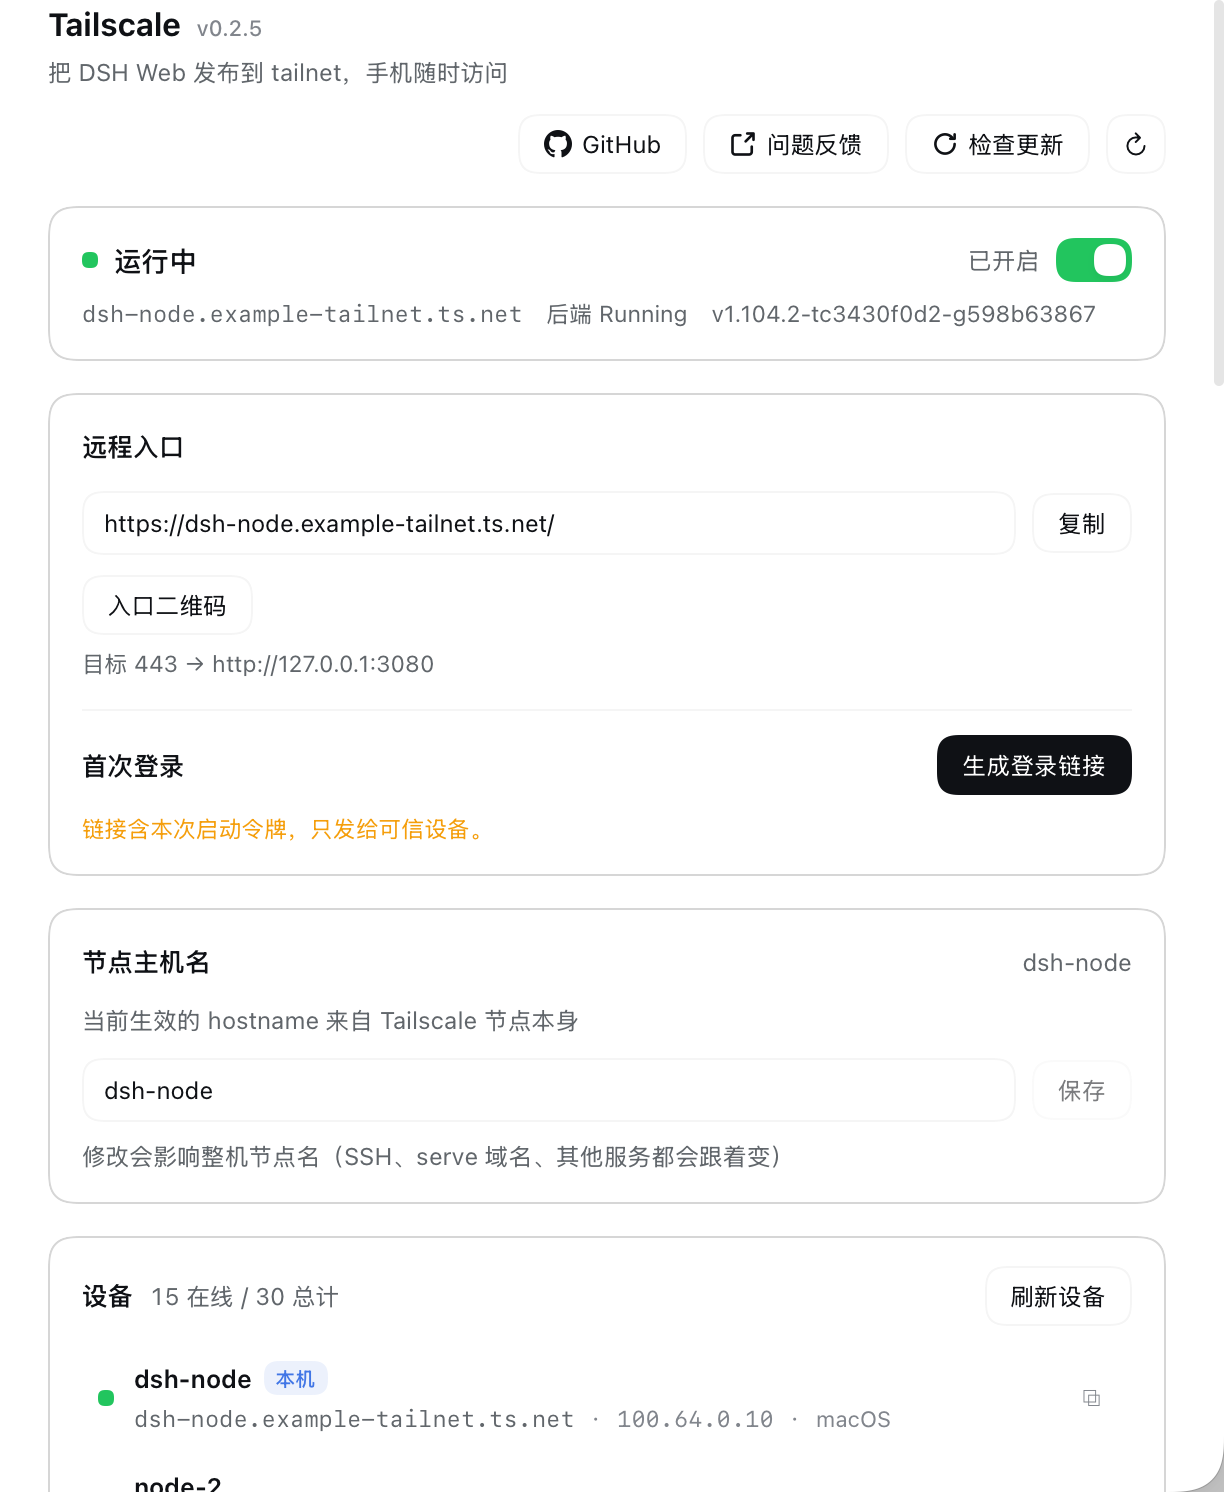
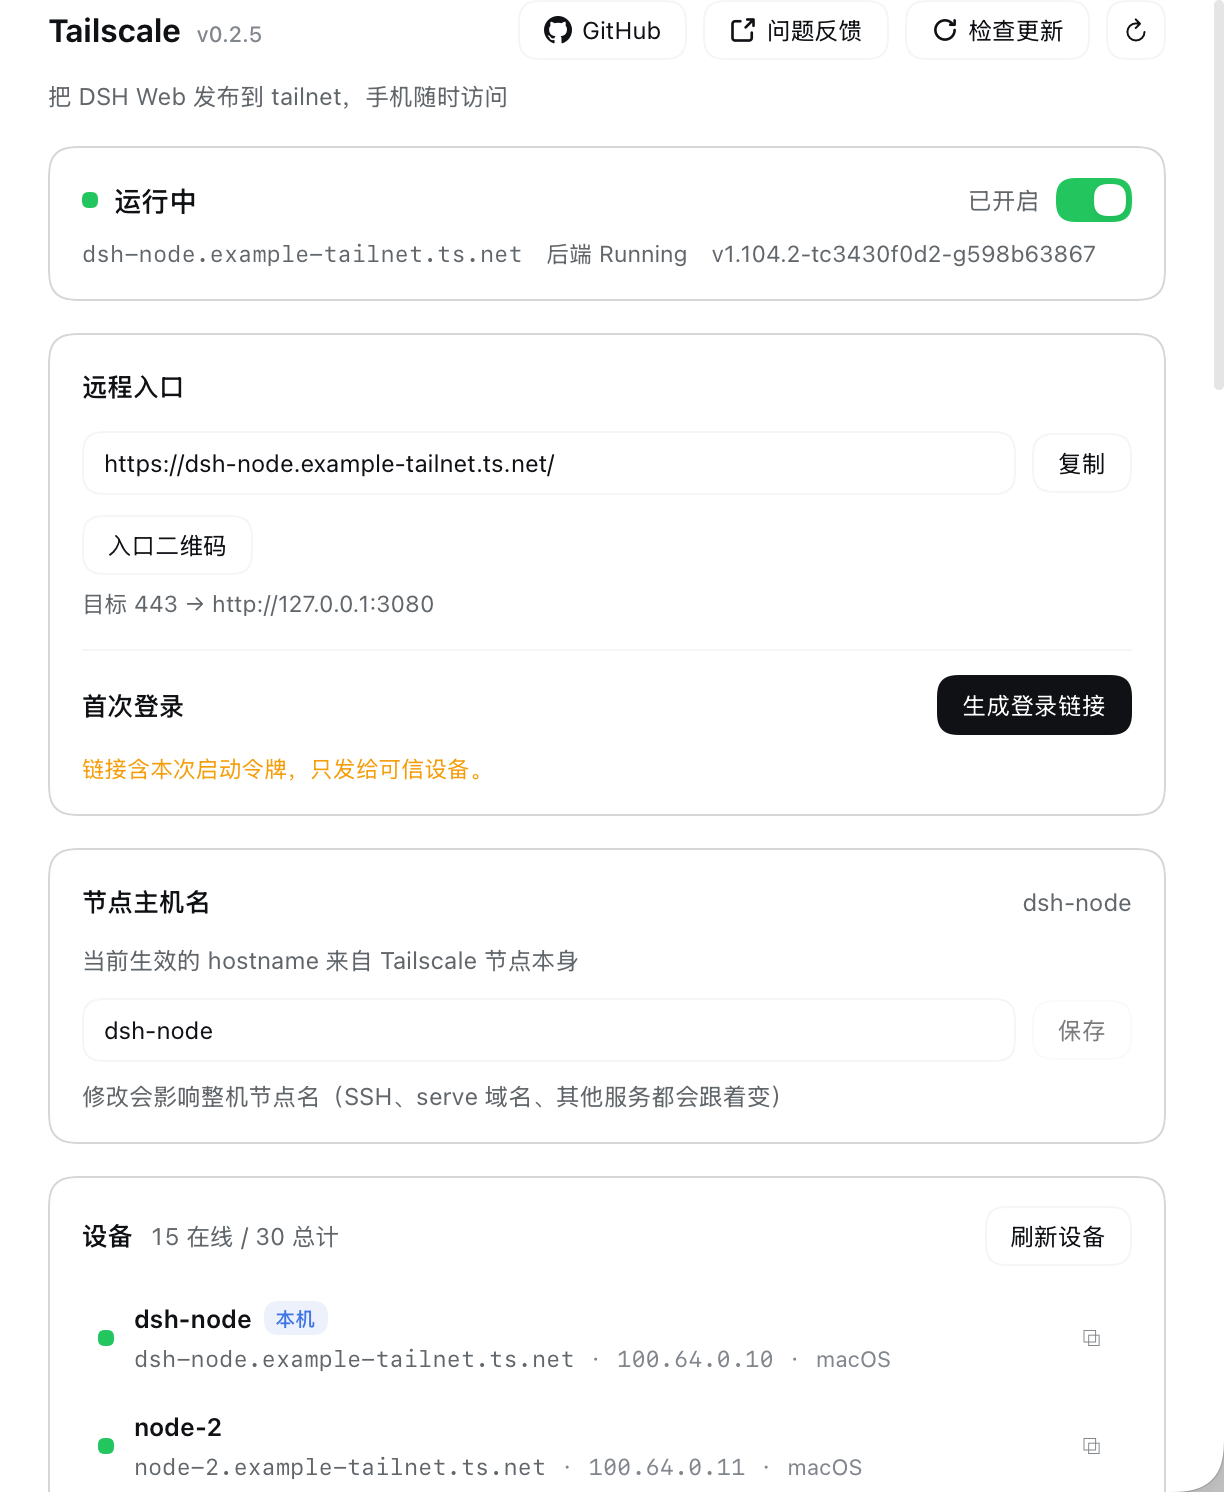
fix(v0.2.6): 设置页头部版式对齐 model-usage（标题行+按钮右对齐，描述独立一行）

diff --git a/lib/client.js b/lib/client.js
@@ -2993,7 +2993,7 @@ var qrcode = function() {
     // ---------------------------------------------------------------- css（只用 --dsw-* 主题 token，fallback 除外）
     const CSS = `
 .dst-root{display:flex;flex-direction:column;gap:16px;padding:0;color:var(--dsw-alias-label-primary,#191f28);font-size:13px;line-height:1.5}
-.dst-shead{display:flex;align-items:flex-start;gap:12px}
+.dst-shead{display:flex;flex-direction:column;gap:6px}
 .dst-shead-main{min-width:0;flex:1 1 auto}
 .dst-title{font-size:16px;font-weight:650;margin:0;color:var(--dsw-alias-label-primary,#191f28)}
 .dst-desc{margin-top:3px;font-size:12px;color:var(--dsw-alias-label-secondary,#637182)}
@@ -3090,7 +3090,7 @@ var qrcode = function() {
 .dst-row{display:flex;align-items:center;gap:8px;flex-wrap:wrap;margin-top:10px}
 .dst-row .dst-btn{margin-left:0}
 .dst-btn-icon{padding:0;width:30px;justify-content:center;font-size:14px}
-.dst-shead{flex-wrap:wrap}
+.dst-title-row{display:flex;align-items:center;gap:12px;flex-wrap:wrap}
 .dst-shead-actions{flex-wrap:wrap;justify-content:flex-end;row-gap:8px;margin-left:auto}
 .dst-btn-primary{background:var(--dsw-alias-button-primary-fill,#4d6bfe);border-color:transparent;color:var(--dsw-alias-label-primary-inverted,#fff)}
 .dst-btn-primary:hover{background:var(--dsw-alias-button-primary-hover,#3d5ce0)}
@@ -3853,25 +3853,25 @@ var qrcode = function() {
         h('path', { d: 'M13.5 8a5.5 5.5 0 1 1-1.6-3.9M13.5 2.5V5H11', 'stroke-linecap': 'round', 'stroke-linejoin': 'round' }))
 
       const head = h('div', { className: 'dst-shead' },
-        h('div', { className: 'dst-shead-main' },
+        h('div', { className: 'dst-title-row' },
           h('h2', { className: 'dst-title' }, tr('title'),
             h('span', { className: 'dst-ver' }, 'v' + ((updateInfo && updateInfo.current) || '—'))),
-          h('div', { className: 'dst-desc' }, tr('desc'))),
-        h('div', { className: 'dst-shead-actions' },
-          h('button', { type: 'button', className: 'dst-btn', onClick: () => openExternal(GEO_REPO), title: 'GitHub' },
-            h(IcoGitHub), ' GitHub'),
-          h('button', { type: 'button', className: 'dst-btn', onClick: () => openExternal(GEO_ISSUES) },
-            h(IcoLink), ' ' + tr('feedback')),
-          h('button', { type: 'button', className: 'dst-btn', disabled: updateBusy, onClick: runUpdateCheck },
-            h(IcoRefresh), ' ' + (updateBusy ? tr('checkingUpdate') : tr('checkUpdate'))),
-          h('button', {
-            type: 'button',
-            className: 'dst-btn dst-btn-icon',
-            title: tr('refresh'),
-            'aria-label': tr('refresh'),
-            onClick: () => load({ force: true }),
-            disabled: refreshing,
-          }, refreshing ? '…' : '↻')))
+          h('div', { className: 'dst-shead-actions' },
+            h('button', { type: 'button', className: 'dst-btn', onClick: () => openExternal(GEO_REPO), title: 'GitHub' },
+              h(IcoGitHub), ' GitHub'),
+            h('button', { type: 'button', className: 'dst-btn', onClick: () => openExternal(GEO_ISSUES) },
+              h(IcoLink), ' ' + tr('feedback')),
+            h('button', { type: 'button', className: 'dst-btn', disabled: updateBusy, onClick: runUpdateCheck },
+              h(IcoRefresh), ' ' + (updateBusy ? tr('checkingUpdate') : tr('checkUpdate'))),
+            h('button', {
+              type: 'button',
+              className: 'dst-btn dst-btn-icon',
+              title: tr('refresh'),
+              'aria-label': tr('refresh'),
+              onClick: () => load({ force: true }),
+              disabled: refreshing,
+            }, refreshing ? '…' : '↻'))),
+        h('div', { className: 'dst-desc' }, tr('desc')))
 
       let body = null
       if (phase === 'loading' && !snap) {

diff --git a/CHANGELOG.md b/CHANGELOG.md
@@ -1,5 +1,10 @@
 # CHANGELOG
 
+## 0.2.6 — 2026-10-24
+
+### 修复
+- 设置页头部版式对齐 dsh-model-usage：标题 + 版本 + 操作按钮在同一行（按钮右对齐），描述改为独立一行；不再出现按钮被挤到第二行或描述折行。
+
 ## 0.2.5 — 2026-10-24
 
 ### 新增
